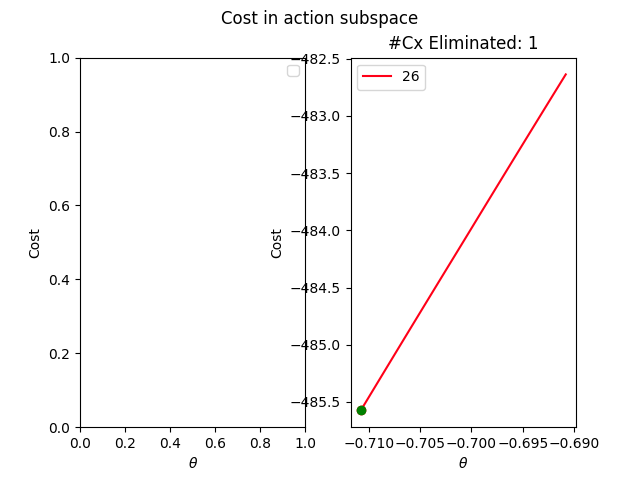
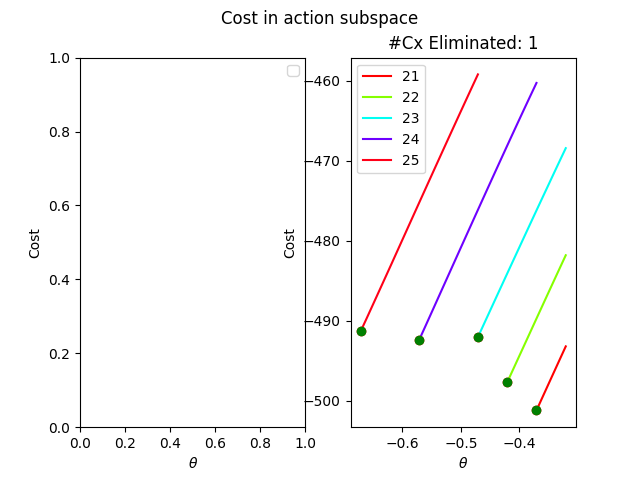
New workflow kinda works

diff --git a/scripts/cable_simple_policy.py b/scripts/cable_simple_policy.py
@@ -31,6 +31,7 @@ class CableSimplePolicy:
         self.width = width
         self.height = height
         self.min_edge_dist = 30
+        self.stiff_tail_thresh = 200
         self.workspace = [
             (0, 0),
             (self.width, self.height),
@@ -40,21 +41,24 @@ class CableSimplePolicy:
         # for MODE_ELIM
         self.weight_dist = 1.0
         self.weight_curv = 100
-        self.weight_uncertainty = 200
+        self.weight_uncertainty = 100
         # for MODE_REDISTRIB
-        self.weight_dist_cov = 50
+        self.weight_dist_cov = 3000
 
         self.weight_cost = 1.0
         self.weight_elim = 30
 
-        self.rim = 30  # px
-        self.min_lift_z = 0.06
+        self.rim = 40  # px
+        self.min_lift_z = 0.03
         self.max_lift_z = 0.3
         self.use_rs = use_rs
 
         self.theta_range_bound = 0.05
         if self.use_rs is True:
             self.realsense = Realsense()
+
+        self.prev_cable_id = None
+        self.grasp_length_multiplier = 1.0
 
     def gen_graph_from_image(self, img):
         cable_data = getCablesDataFromImage(img, vis=False)
@@ -133,8 +137,14 @@ class CableSimplePolicy:
         #     return None
         print("keypoint:", next_id)
         if len(nodes) < 2:
-            print("#", cableID, " has too few graspable nodes, returning")
-            return None
+            print("#", cableID, " has too few graspable nodes")
+            # it's also possible to grab the next segment if the free segment is short
+            if not graph.is_fixed_endpoint(next_id):
+                next_id, cx_pos, nodes = graph.get_next_keypoint(next_id)
+                if len(nodes) < 2:
+                    return None
+            else:
+                return None
 
         nodes = nodes[:-1]  # the last one is the pivot point
         grasp_point_id, goal_coord, goal_vec = self.search_goal_coord(
@@ -158,6 +168,7 @@ class CableSimplePolicy:
         action = Action(True)
         pick_point = graph.get_node_coords(grasp_point_id)
         action.pick_coord = pick_point
+
         action.place_coord = goal_coord
         pivot_point = graph.get_node_coords(pivot_point_id)
         print("pivot_point: ", pivot_point)
@@ -179,7 +190,7 @@ class CableSimplePolicy:
         )
         if self.use_rs:
             action.z = np.clip(
-                self.px_length_to_m(cableID, tmp_px_dist) * 0.85,  # TODO magic
+                self.px_length_to_m(cableID, tmp_px_dist) * 0.75,  # TODO magic
                 self.min_lift_z,
                 self.max_lift_z,
             )
@@ -300,7 +311,12 @@ class CableSimplePolicy:
         graph: Graph = self.cg.graphs[cableID]
         grasp_point = np.array(graph.get_node_coords(grasp_point_id))
         pivot_point = np.array(graph.get_node_coords(pivot_point_id))
-        thetas = np.arange(-np.pi / 2, np.pi / 2, 0.03)
+        thetas = np.hstack(
+            (
+                np.arange(-np.pi / 2, -np.pi / 12, 0.05),
+                np.arange(np.pi / 12, np.pi / 2, 0.05),
+            )
+        )
         thetas = np.hstack(([0], thetas))
         theta_ranges = {}  # {elim_num1: [[],[],..], elim_num2: [[],[],..]}
         theta_range_tmp = []
@@ -614,8 +630,8 @@ class CableSimplePolicy:
         """The cost is a weighted sum of
         1. Cov of distance to upper boundary
         2. Uncertainty
+        3. Curvature
         """
-        cost = 0
         graph: Graph = self.cg.graphs[cableID]
         # from res free end to res grasp to pivot to fixed end
         graph_this = self.simulate_next_state(
@@ -629,12 +645,24 @@ class CableSimplePolicy:
                 for node in graph_this.get_nodes()
             ]
         )
-        dist_cov_cost = np.cov(dists)
+        dists = dists / self.height
+        dist_cov_cost = np.sqrt(np.cov(dists))
+        dist_cost_all = 0
+        for cableid, graph in self.cg.graphs.items():
+            if cableid != cableID:
+                dist_cost = -graph_this.calc_distance_between_graphs(
+                    self.cg.graphs[cableid]
+                )
+                dist_cost_all += self.weight_dist * dist_cost
+
         uncertainty_cost = -grasp_length / total_length
+        curv_cost = -graph_this.calc_curvature(pivot_point_id)
 
         cost = (
             self.weight_dist_cov * dist_cov_cost
             + self.weight_uncertainty * uncertainty_cost
+            + self.weight_curv * curv_cost
+            # + dist_cost_all / (len(self.cg.graphs) - 1)
         )
         return cost
 
@@ -648,6 +676,13 @@ class CableSimplePolicy:
         total_max_elim_num = None
         for grasp_point_id in nodes:
             print("grasp: ", grasp_point_id, "pivot: ", pivot_point_id)
+            # if it's too close to other nodes, bad
+            graph_others = self.cg.create_compound_graph_except(cableID)
+            nearest_dist, nearest_id = graph_others.find_nearest_node(
+                graph.get_node_coords(grasp_point_id)
+            )
+            if nearest_dist < self.min_edge_dist:
+                continue
 
             grasp_length = graph.compute_length(grasp_point_id, pivot_point_id)
 
@@ -671,10 +706,10 @@ class CableSimplePolicy:
             return None, None, None
 
         # to save space, we only select from the first 8 gpid
-        theta_ranges_all = theta_ranges_all[:8]
+        theta_ranges_all = theta_ranges_all[:15]
         # gp_cost_map_all <- {gpid: {elim: cost, elim: cost}, ..}
         # note: if mode is REDISTRIB, theta_ranges_all only contain theta_ranges
-        # whose key (the elim num) is 0
+        # whose key (the elim num) is 0? TODO not really
         gp_cost_map_all, gp_theta_map_all = self.compute_all_costs(
             theta_ranges_all,
             total_max_elim_num,
@@ -700,23 +735,18 @@ class CableSimplePolicy:
                     elim_to_best_action_map[elim] = (gpid, theta)
 
         best_elim = None
-
-        if mode == MODE_ELIM:  # in elim cx mode
-            best_score = None
-            for elim, cost in elim_to_best_cost_map.items():
-                score = -elim * self.weight_elim + cost * self.weight_cost
-                if best_elim is None or score < best_score:
-                    best_elim = elim
-                    best_score = score
-
-        elif mode == MODE_REDISTRIB:
-            # if we're in redistribution mode, no gpid has any theta will result
-            # in a reduction of #cx
-            assert total_max_elim_num == 0
-            best_elim = 0
+        best_score = None
+        for elim, cost in elim_to_best_cost_map.items():
+            score = -elim * self.weight_elim + cost * self.weight_cost
+            if best_elim is None or score < best_score:
+                best_elim = elim
+                best_score = score
 
         best_gpid, best_theta = elim_to_best_action_map[best_elim]
-        best_grasp_length = graph.compute_length(best_gpid, pivot_point_id)
+        best_grasp_length = (
+            graph.compute_length(best_gpid, pivot_point_id)
+            * self.grasp_length_multiplier
+        )
         # convert theta into goal coord
         goal_coord, goal_vec = self.theta_to_goal_coord(
             best_theta, best_gpid, pivot_point_id, best_grasp_length, cableID
@@ -847,7 +877,13 @@ class CableSimplePolicy:
             div=num_new_edges,
             new_id=grasp_point_id,
         )
-        if ratio > 0.7:  # use straight mode TODO magic number
+        # also need to consider stiffness.
+        # a longer tail is less stiff, while a shorter tail is more stiff
+        # use straight mode TODO magic number
+        if (
+            ratio > 0.7
+            or (total_length - grasp_length) < self.stiff_tail_thresh
+        ):
             free_end_res_point = self.get_result_point(
                 theta, total_length, grasp_point, pivot_point
             )
@@ -921,7 +957,11 @@ class CableSimplePolicy:
         self.depth = depth
         num_done = 0
         print("Attemping to ELIM")
-        for cableID in self.cg.graphs.keys():
+        cableids = set(self.cg.graphs.keys())
+        if self.prev_cable_id is not None:
+            cableids = cableids - {self.prev_cable_id}
+        cableids = list(cableids)
+        for cableID in cableids:
             action = self.eliminate_crossing(cableID)
             if num_done > 0 and action is not None and action.is_empty is False:
                 num_done = 0
@@ -932,22 +972,24 @@ class CableSimplePolicy:
                     num_done += 1
                 else:
                     print("Found valid action to elim at least 1 cx")
+                    self.prev_cable_id = cableID
                     self.fa.exe_action(action)
                     return UNWEAVE_IN_PROGRESS
 
-        if num_done == len(self.cg.graphs.keys()):
+        if num_done == len(cableids):
             print("Unweaving all done. Stopping...")
             return UNWEAVE_ALL_DONE
         # if cable not done and we can't find any action to elim, the we attemp
         # to redistrib a (random?) cable whose first cx is an ux
         print("Cannot find any move on cables whose first cx is OX")
         print("Attemping to REDISTRIB")
-        cableids = list(self.cg.graphs.keys())
+
         random.shuffle(cableids)
         for cableID in cableids:
             action = self.redistribute_cable(cableID)
             if action is not None:
                 print("Found valid action to redistrib a cable")
+                self.prev_cable_id = cableID
                 self.fa.exe_action(action)
                 return UNWEAVE_IN_PROGRESS
         # can neither ELIM nor REDISTRIB
@@ -971,8 +1013,9 @@ class CableSimplePolicy:
             self.height = img_h
             self.workspace = [(0, 0), (self.width, self.height)]
             cv2.imshow("img", bgr)
-            cv2.waitKey(0)
             cv2.imwrite("cableImages/rs_cable_imgs2/test.png", bgr)
+            cv2.waitKey(0)
+            cv2.destroyAllWindows()
             res = self.unweave_step(bgr, depth)
             if res is UNWEAVE_FAIL:
                 raise RuntimeError("Cannot find an action to unweave!")

diff --git a/scripts/my_franka.py b/scripts/my_franka.py
@@ -19,8 +19,8 @@ ANGLE_CLIP = 1
 
 class MyFranka:
     def __init__(self):
-        self.time_per_move = 3
-        self.small_z_offset = -0.025
+        self.time_per_move = 2
+        self.small_z_offset = -0.028
         self.fa = FrankaArm()
         # transformation from fingertip of ee to center of ee
         self.T_ee_et = np.eye(4)
@@ -39,11 +39,11 @@ class MyFranka:
 
     def open_gripper(self):
         self.fa.goto_gripper(0.05)
-        time.sleep(2)
+        time.sleep(1)
 
     def close_gripper(self):
         self.fa.close_gripper()
-        time.sleep(2)
+        time.sleep(1.5)
 
     def reset_joint_and_gripper(self):
         self.fa.open_gripper()
@@ -71,7 +71,7 @@ class MyFranka:
             "R": np.array(
                 [[1.0, 0.0, 0.0], [0.0, -1.0, 0.0], [0.0, 0.0, -1.0]]
             ),
-            "t": np.array([0.395, 0.0, 0.53]),
+            "t": np.array([0.395, 0.0, 0.57]),
         }
         self.goto_pose(home_pose, sleep=self.time_per_move, use_impedance=False)
 
@@ -170,27 +170,18 @@ class MyFranka:
         print(T_w_et)
 
         if manipulate_gripper == GRIPPER_GRASP:
-            self.open_gripper()
-            self.goto_pose(p, sleep=self.time_per_move, use_impedance=False)
-            self.close_gripper()
-
-            while True:
-                print("REGRASP!!")
+            num_attemp = 0
+            while num_attemp < 5:
                 self.open_gripper()
-                self.goto_pose(
-                    {
-                        "R": p["R"],
-                        "t": p["t"] + [0, 0, -0.003],
-                    },
-                    sleep=self.time_per_move,
-                    use_impedance=False,
-                )
-
+                self.goto_pose(p, sleep=self.time_per_move, use_impedance=False)
                 self.close_gripper()
                 gripper_width = self.get_gripper_width()
-
-                if gripper_width > 0.001:
+                if gripper_width > 0.002:
                     break
+                print("REGRASP!!")
+                p["t"] += [0, 0, -0.003]
+                num_attemp += 1
+
         elif manipulate_gripper == GRIPPER_UNGRASP:
             self.goto_pose(p, sleep=self.time_per_move, use_impedance=False)
             self.open_gripper()
